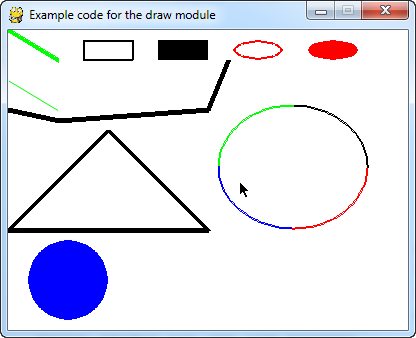
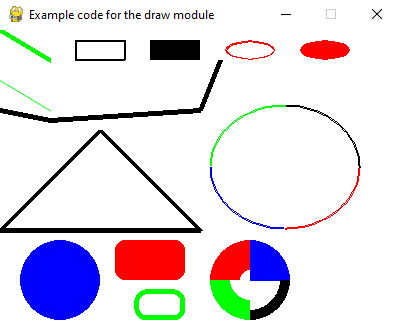
Fixed quadrant drawing

diff --git a/src_c/draw.c b/src_c/draw.c
@@ -920,7 +920,7 @@ rect(PyObject *self, PyObject *args, PyObject *kwargs)
         return ret;
     }
     else {
-        radius = min(min(rect->w, rect->h) / 2, radius);
+        radius = MIN(MIN(rect->w, rect->h) / 2, radius);
         draw_round_rect(surf, rect->x, rect->y, rect->x + rect->w - 1, rect->y + rect->h - 1,
                         radius, width, color, drawn_area);
     }
@@ -1687,21 +1687,37 @@ draw_circle_bresenham(SDL_Surface *dst, int x0, int y0, int radius, int thicknes
            interval: [number - 1 * pi / 4, number * pi / 4] */
         for (i=0; i<thickness; i++){
             y1=y-i;
-            if (set_at(dst, x0 + x - 1, y0 + y1 - 1, color) && (i == 0 || i == thickness - 1))  /* 7 */
+            if ((y0 + y1 - 1) >= (y0 + x - 1) &&
+                set_at(dst, x0 + x - 1, y0 + y1 - 1, color) &&  /* 7 */
+                (i == 0 || i == thickness - 1))
                 add_pixel_to_drawn_list(x0 + x - 1, y0 + y1 - 1, drawn_area);
-            if (set_at(dst, x0 - x, y0 + y1 - 1, color) && (i == 0 || i == thickness - 1))      /* 6 */
+            if ((y0 + y1 - 1) > (y0 + x - 1) &&
+                set_at(dst, x0 - x, y0 + y1 - 1, color) &&      /* 6 */
+                (i == 0 || i == thickness - 1))
                 add_pixel_to_drawn_list(x0 - x, y0 + y1 - 1, drawn_area);
-            if (set_at(dst, x0 + x - 1, y0 - y1, color) && (i == 0 || i == thickness - 1))      /* 2 */
+            if ((y0 - y1) < (y0 - x) &&
+                set_at(dst, x0 + x - 1, y0 - y1, color) &&      /* 2 */
+                (i == 0 || i == thickness - 1))
                 add_pixel_to_drawn_list(x0 + x - 1, y0 - y1, drawn_area);
-            if (set_at(dst, x0 - x, y0 - y1, color) && (i == 0 || i == thickness - 1))          /* 3 */
+            if ((y0 - y1) <= (y0 - x) &&
+                set_at(dst, x0 - x, y0 - y1, color) &&          /* 3 */
+                (i == 0 || i == thickness - 1))
                 add_pixel_to_drawn_list(x0 - x, y0 - y1, drawn_area);
-            if (set_at(dst, x0 + y1 - 1, y0 + x - 1, color) && (i == 0 || i == thickness - 1))  /* 8 */
+            if ((x0 + y1 - 1) > (x0 + x - 1) &&
+                set_at(dst, x0 + y1 - 1, y0 + x - 1, color) &&  /* 8 */
+                (i == 0 || i == thickness - 1))
                 add_pixel_to_drawn_list(x0 + y1 - 1, y0 + x - 1, drawn_area);
-            if (set_at(dst, x0 - y1, y0 + x - 1, color) && (i == 0 || i == thickness - 1))      /* 5 */
+            if ((x0 - y1) <= (x0 - x) &&
+                set_at(dst, x0 - y1, y0 + x - 1, color) &&      /* 5 */
+                (i == 0 || i == thickness - 1))
                 add_pixel_to_drawn_list(x0 - y1, y0 + x - 1, drawn_area);
-            if (set_at(dst, x0 + y1 - 1, y0 - x, color) && (i == 0 || i == thickness - 1))      /* 1 */
+            if ((x0 + y1 - 1) >= (x0 + x - 1) &&
+                set_at(dst, x0 + y1 - 1, y0 - x, color) &&      /* 1 */
+                (i == 0 || i == thickness - 1))
                 add_pixel_to_drawn_list(x0 + y1 - 1, y0 - x, drawn_area);
-            if (set_at(dst, x0 - y1, y0 - x, color) && (i == 0 || i == thickness - 1))          /* 4 */
+            if ((x0 - y1) < (x0 - x) &&
+                set_at(dst, x0 - y1, y0 - x, color) &&          /* 4 */
+                (i == 0 || i == thickness - 1))
                 add_pixel_to_drawn_list(x0 - y1, y0 - x, drawn_area);
         }
     }
@@ -1751,36 +1767,44 @@ draw_circle_quadrant(SDL_Surface *dst, int x0, int y0, int radius, int quadrant,
             if (quadrant == 1) {
                 for (i=0; i<thickness; i++) {
                     y1=y-i;
-                    if (set_at(dst, x0 + x - 1, y0 - y1, color))  /* 2 */
+                    if ((y0 - y1) < (y0 - x) &&
+                        set_at(dst, x0 + x - 1, y0 - y1, color))      /* 2 */
                         add_pixel_to_drawn_list(x0 + x - 1, y0 - y1, drawn_area);
-                    if (set_at(dst, x0 + y1 - 1, y0 - x, color))  /* 1 */
+                    if ((x0 + y1 - 1) >= (x0 + x - 1) &&
+                        set_at(dst, x0 + y1 - 1, y0 - x, color))      /* 1 */
                         add_pixel_to_drawn_list(x0 + y1 - 1, y0 - x, drawn_area);
                 }
             }
             if (quadrant == 2) {
                 for (i=0; i<thickness; i++) {
                     y1=y-i;
-                    if (set_at(dst, x0 - x, y0 - y1, color))          /* 3 */
+                    if ((y0 - y1) <= (y0 - x) &&
+                        set_at(dst, x0 - x, y0 - y1, color))          /* 3 */
                         add_pixel_to_drawn_list(x0 - x, y0 - y1, drawn_area);
-                    if (set_at(dst, x0 - y1, y0 - x, color))          /* 4 */
+                    if ((x0 - y1) < (x0 - x) &&
+                        set_at(dst, x0 - y1, y0 - x, color))          /* 4 */
                         add_pixel_to_drawn_list(x0 - y1, y0 - x, drawn_area);
                 }
             }
             if (quadrant == 3) {
                 for (i=0; i<thickness; i++) {
                     y1=y-i;
-                    if (set_at(dst, x0 - y1, y0 + x - 1, color))      /* 5 */
+                    if ((x0 - y1) <= (x0 - x) &&
+                        set_at(dst, x0 - y1, y0 + x - 1, color))      /* 5 */
                         add_pixel_to_drawn_list(x0 - y1, y0 + x - 1, drawn_area);
-                    if (set_at(dst, x0 - x, y0 + y1 - 1, color))      /* 6 */
+                    if ((y0 + y1 - 1) > (y0 + x - 1) &&
+                        set_at(dst, x0 - x, y0 + y1 - 1, color))      /* 6 */
                         add_pixel_to_drawn_list(x0 - x, y0 + y1 - 1, drawn_area);
                 }
             }
             if (quadrant == 4) {
                 for (i=0; i<thickness; i++) {
                     y1=y-i;
-                    if (set_at(dst, x0 + x - 1, y0 + y1 - 1, color))  /* 7 */
+                    if ((y0 + y1 - 1) >= (y0 + x - 1) &&
+                        set_at(dst, x0 + x - 1, y0 + y1 - 1, color))  /* 7 */
                         add_pixel_to_drawn_list(x0 + x - 1, y0 + y1 - 1, drawn_area);
-                    if (set_at(dst, x0 + y1 - 1, y0 + x - 1, color))  /* 8 */
+                    if ((x0 + y1 - 1) > (x0 + x - 1) &&
+                        set_at(dst, x0 + y1 - 1, y0 + x - 1, color))  /* 8 */
                         add_pixel_to_drawn_list(x0 + y1 - 1, y0 + x - 1, drawn_area);
                 }
             }
@@ -1874,6 +1898,7 @@ draw_circle_filled(SDL_Surface *dst, int x0, int y0, int radius, Uint32 color, i
         }
     }
 }
+
 static void
 draw_ellipse(SDL_Surface *dst, int x, int y, int width, int height, int solid,
              Uint32 color)

diff --git a/docs/reST/ref/code_examples/draw_module_example.py b/docs/reST/ref/code_examples/draw_module_example.py
@@ -55,7 +55,11 @@ while not done:
      
     # Draw a solid rectangle
     pygame.draw.rect(screen, BLACK, [150, 10, 50, 20])
-     
+
+    # Draw a rectangle with rounded corners
+    pygame.draw.rect(screen, RED, [115, 210, 70, 40], 0, 10)
+    pygame.draw.rect(screen, GREEN, [135, 260, 50, 30], 5, 10)
+
     # Draw an ellipse outline, using a rectangle as the outside boundaries
     pygame.draw.ellipse(screen, RED, [225, 10, 50, 20], 2) 
 
@@ -74,7 +78,13 @@ while not done:
     
     # Draw a circle
     pygame.draw.circle(screen, BLUE, [60, 250], 40)
-    
+
+    # Draw only one circle quadrant
+    pygame.draw.circle(screen, BLUE, [250, 250], 40, 0, 1)
+    pygame.draw.circle(screen, RED, [250, 250], 40, 30, 2)
+    pygame.draw.circle(screen, GREEN, [250, 250], 40, 20, 3)
+    pygame.draw.circle(screen, BLACK, [250, 250], 40, 10, 4)
+
     # Go ahead and update the screen with what we've drawn.
     # This MUST happen after all the other drawing commands.
     pygame.display.flip()

diff --git a/test/draw_test.py b/test/draw_test.py
@@ -5140,7 +5140,6 @@ class DrawCircleMixin(object):
 
     #     l, t, MAX(r - l, 0), MAX(b - t, 0)
 
-    # This decorator can be removed when issue #1122 is resolved.
     def test_circle__bounding_rect(self):
         """Ensures draw circle returns the correct bounding rect.
 

diff --git a/src_c/doc/draw_doc.h b/src_c/doc/draw_doc.h
@@ -20,7 +20,7 @@ pygame module for drawing shapes
 
 pygame.draw.rect
  rect(surface, color, rect) -> Rect
- rect(surface, color, rect, width=0, border-radius=0) -> Rect
+ rect(surface, color, rect, width=0, border_radius=0) -> Rect
 draw a rectangle
 
 pygame.draw.polygon

diff --git a/docs/reST/ref/draw.rst b/docs/reST/ref/draw.rst
@@ -47,7 +47,7 @@ object around the draw calls (see :func:`pygame.Surface.lock` and
 
    | :sl:`draw a rectangle`
    | :sg:`rect(surface, color, rect) -> Rect`
-   | :sg:`rect(surface, color, rect, width=0) -> Rect`
+   | :sg:`rect(surface, color, rect, width=0, border_radius=0) -> Rect`
 
    Draws a rectangle on the given surface.
 
@@ -70,6 +70,9 @@ object around the draw calls (see :func:`pygame.Surface.lock` and
             outside the original boundary of the rect. For more details on
             how the thickness for edge lines grow, refer to the ``width`` notes
             of the :func:`pygame.draw.line` function.
+   :param int border_radius: (optional) used for drawing rectangle with rounded
+      corners. Value will be in the interval [0, min(height, width) / 2]. Part of
+      the circle drawn on the corners will have this radius.
 
    :returns: a rect bounding the changed pixels, if nothing is drawn the
       bounding rect's position will be the position of the given ``rect``
@@ -137,7 +140,7 @@ object around the draw calls (see :func:`pygame.Surface.lock` and
 
    | :sl:`draw a circle`
    | :sg:`circle(surface, color, center, radius) -> Rect`
-   | :sg:`circle(surface, color, center, radius, width=0) -> Rect`
+   | :sg:`circle(surface, color, center, radius, width=0, quadrant=0) -> Rect`
 
    Draws a circle on the given surface.
 
@@ -163,6 +166,9 @@ object around the draw calls (see :func:`pygame.Surface.lock` and
          .. note::
             When using ``width`` values ``> 1``, the edge lines will only grow
             inward.
+   :param int quadrant: (optional) used for drawing only one quadrant of the circle
+      Has to be in the interval [0, 4]. If ``quadrant == 0`` entire circle will be 
+      drawn
 
    :returns: a rect bounding the changed pixels, if nothing is drawn the
       bounding rect's position will be the ``center`` parameter value (float
@@ -171,6 +177,7 @@ object around the draw calls (see :func:`pygame.Surface.lock` and
 
    :raises TypeError: if ``center`` is not a sequence of two numbers
    :raises TypeError: if ``radius`` is not a number
+   :raises ValueError: if ``quadrant < 0`` or ``quadrant > 4``
 
    .. versionchanged:: 2.0.0 Added support for keyword arguments.
       Nothing is drawn when the radius is 0 (a pixel at the ``center`` coordinates
